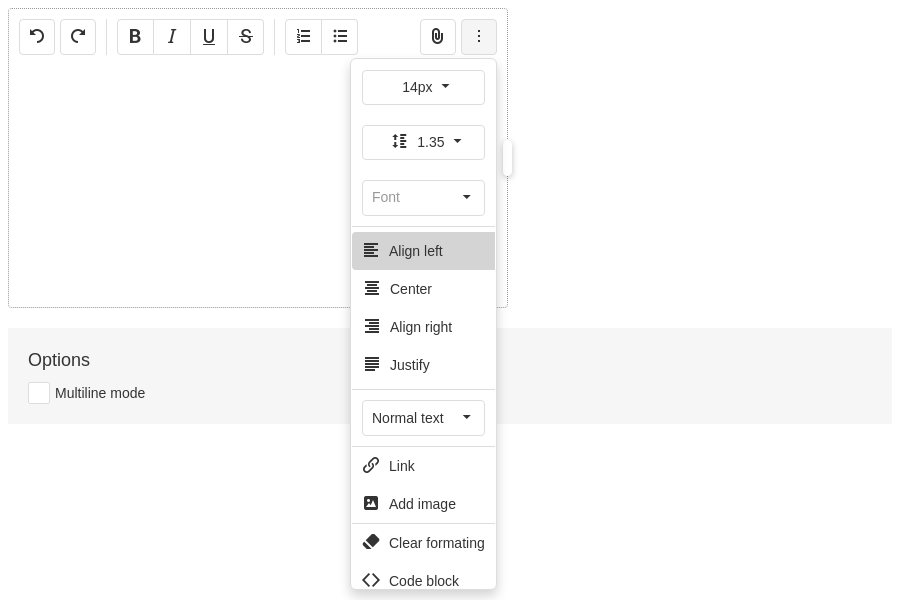
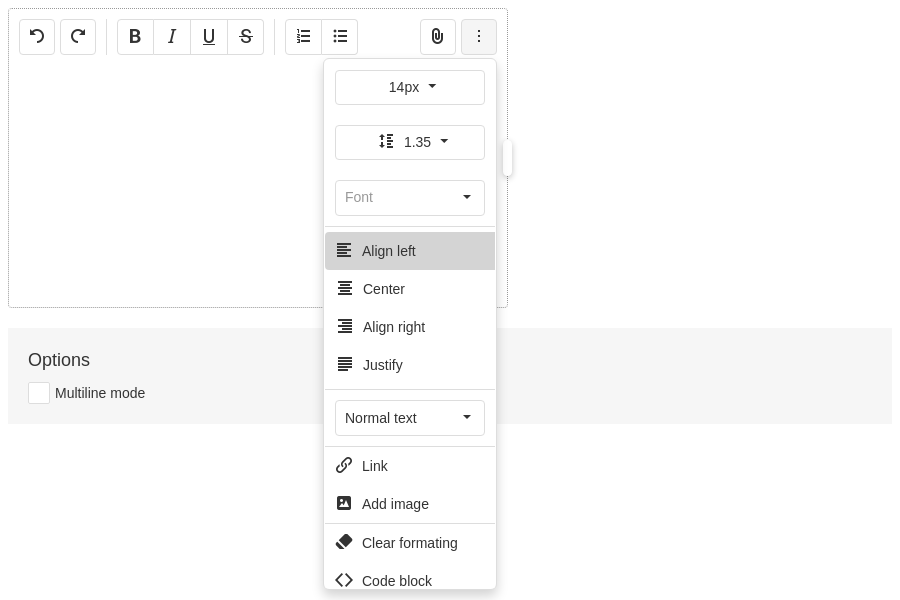
Toolbar Adaptability Demo: remove redundant styles (#2227)

diff --git a/JSDemos/Demos/Toolbar/Adaptability/Vue/App.vue b/JSDemos/Demos/Toolbar/Adaptability/Vue/App.vue
@@ -466,14 +466,6 @@ export default {
   margin-bottom: 5px;
 }
 
-.dx-texteditor {
-  width: 150px;
-}
-
-.dx-toolbar-menu-section .dx-selectbox {
-  width: auto;
-}
-
 .widget-container {
   margin-right: 6px;
 }

diff --git a/JSDemos/Demos/Toolbar/Adaptability/Angular/app/app.component.css b/JSDemos/Demos/Toolbar/Adaptability/Angular/app/app.component.css
@@ -23,10 +23,6 @@
   margin-bottom: 5px;
 }
 
-::ng-deep .dx-toolbar-menu-section .dx-selectbox {
-  width: auto;
-}
-
 ::ng-deep .dx-toolbar-menu-section .toolbar-separator-container {
   height: 1px;
 }

diff --git a/JSDemos/Demos/Toolbar/Adaptability/React/styles.css b/JSDemos/Demos/Toolbar/Adaptability/React/styles.css
@@ -19,10 +19,6 @@
   margin-bottom: 5px;
 }
 
-.dx-toolbar-menu-section .dx-selectbox {
-  width: auto;
-}
-
 .dx-toolbar-menu-section .toolbar-separator-container {
   height: 1px;
 }

diff --git a/JSDemos/Demos/Toolbar/Adaptability/jQuery/styles.css b/JSDemos/Demos/Toolbar/Adaptability/jQuery/styles.css
@@ -19,10 +19,6 @@
   margin-bottom: 5px;
 }
 
-.dx-toolbar-menu-section .dx-selectbox {
-  width: auto;
-}
-
 .dx-toolbar-menu-section .toolbar-separator-container {
   height: 1px;
 }

diff --git a/MVCDemos/Content/DemosStyles/Toolbar/Adaptability.css b/MVCDemos/Content/DemosStyles/Toolbar/Adaptability.css
@@ -19,10 +19,6 @@
   margin-bottom: 5px;
 }
 
-.dx-toolbar-menu-section .dx-selectbox {
-  width: auto;
-}
-
 .dx-toolbar-menu-section .toolbar-separator-container {
   height: 1px;
 }

diff --git a/NetCoreDemos/wwwroot/css/DemosStyles/Toolbar/Adaptability.css b/NetCoreDemos/wwwroot/css/DemosStyles/Toolbar/Adaptability.css
@@ -19,10 +19,6 @@
   margin-bottom: 5px;
 }
 
-.dx-toolbar-menu-section .dx-selectbox {
-  width: auto;
-}
-
 .dx-toolbar-menu-section .toolbar-separator-container {
   height: 1px;
 }
